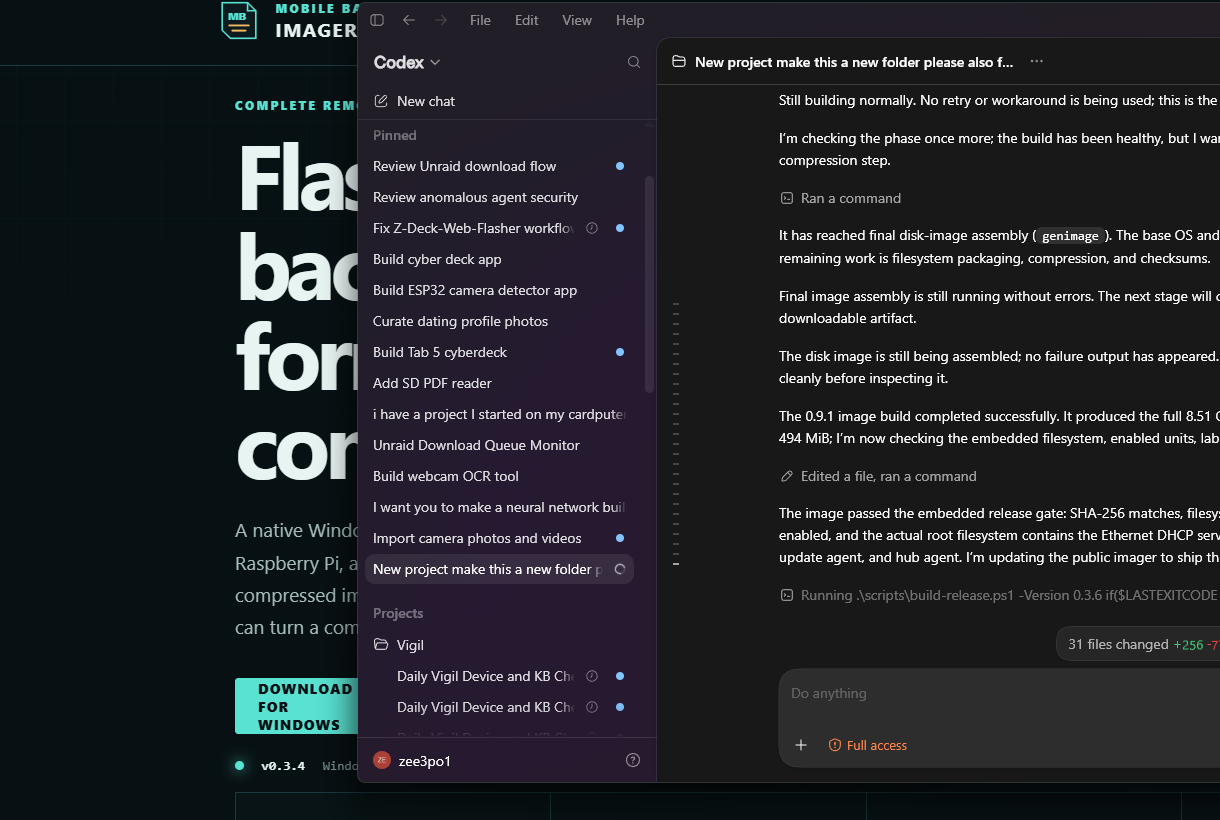
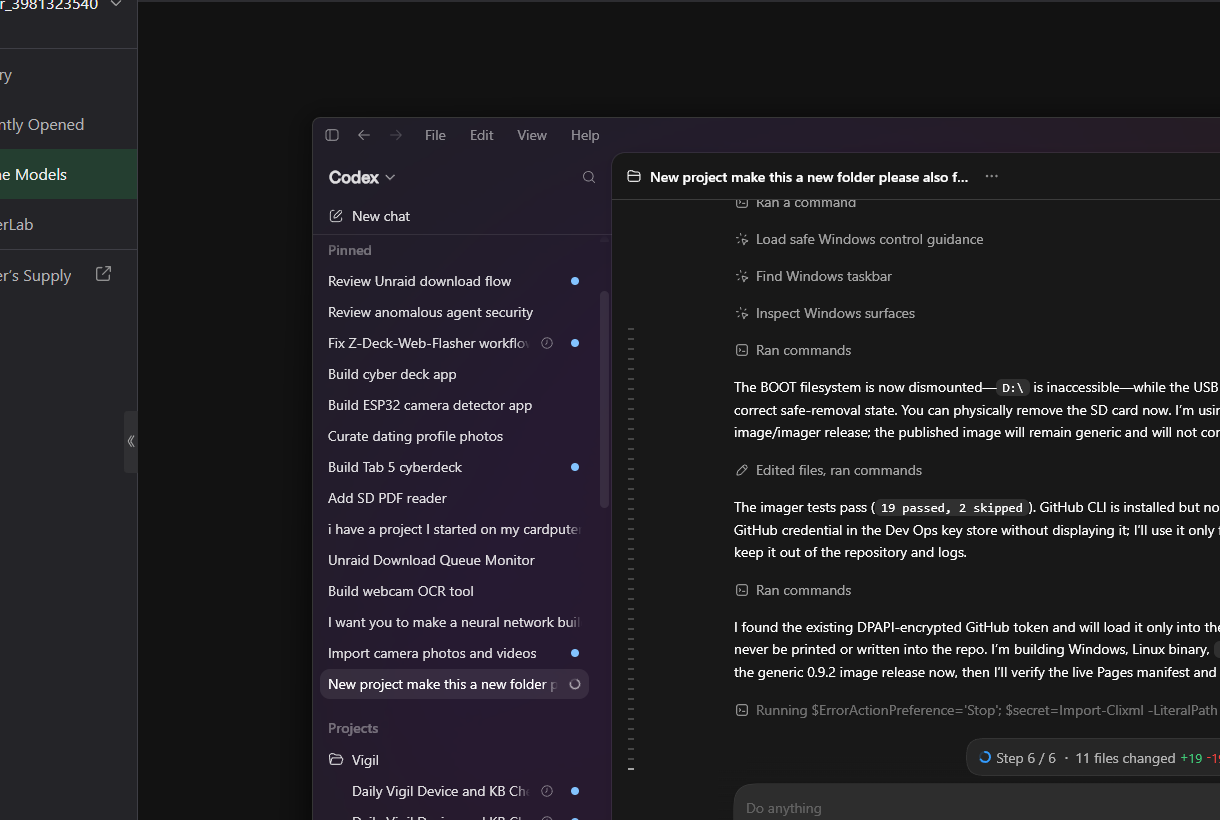
Build Mobile Base Imager 0.3.7

diff --git a/docs/index.html b/docs/index.html
@@ -27,7 +27,7 @@
           <a id="download-image" class="button" href="https://github.com/Its-ze/mobile-base-imager/releases/latest">MOBILE BASE IMAGE</a>
           <a class="button" href="https://mobilebase.itsz.studio">OPEN HOME BASE</a>
         </div>
-        <div class="release"><span class="pulse"></span><strong id="release-version">v0.3.6</strong><span>Windows + Linux x64</span><span>Managed Pi 0.9.1</span></div>
+        <div class="release"><span class="pulse"></span><strong id="release-version">v0.3.7</strong><span>Windows + Linux x64</span><span>Managed Pi 0.9.2</span></div>
       </div>
       <div class="product-card">
         <div class="window-bar"><i></i><span>MOBILE BASE IMAGER</span><em>ADMIN READY</em></div>

diff --git a/app/mobile_base_imager.py b/app/mobile_base_imager.py
@@ -38,9 +38,9 @@ from app.core import (
 PRODUCT = "Mobile Base Imager"
 MANIFEST_URL = "https://its-ze.github.io/mobile-base-imager/release-manifest.json"
 FALLBACK_MANIFEST = {
-    "imageVersion": "0.9.1",
-    "imageAsset": "mobile-base-pi5-0.9.1.img.zst",
-    "imageUrl": "https://github.com/Its-ze/mobile-base-imager/releases/download/v0.3.6/mobile-base-pi5-0.9.1.img.zst",
+    "imageVersion": "0.9.2",
+    "imageAsset": "mobile-base-pi5-0.9.2.img.zst",
+    "imageUrl": "https://github.com/Its-ze/mobile-base-imager/releases/download/v0.3.7/mobile-base-pi5-0.9.2.img.zst",
     "imageBytes": 517582438,
[1 lines of base64/hex data omitted]
 }

diff --git a/app/__init__.py b/app/__init__.py
@@ -1,1 +1,1 @@
-__version__ = "0.3.6"
+__version__ = "0.3.7"

diff --git a/README.md b/README.md
@@ -46,8 +46,8 @@ Ubuntu 24.04+, Debian 13+, and compatible x86_64 distributions with glibc 2.39+ 
 On Fedora 40 or newer, download the AppImage, make it executable, and run it:
 
 ```bash
-chmod +x Mobile_Base_Imager-0.3.6-x86_64.AppImage
-./Mobile_Base_Imager-0.3.6-x86_64.AppImage
+chmod +x Mobile_Base_Imager-0.3.7-x86_64.AppImage
+./Mobile_Base_Imager-0.3.7-x86_64.AppImage
 ```
 
 Download and run the standalone installer:
@@ -60,12 +60,12 @@ bash install-mobile-base-imager.sh
 The installer downloads the matching Debian package, verifies its published SHA-256, installs required system packages through APT, creates the desktop entry, and runs the built-in self-test.
 
 ```bash
-sudo apt install ./mobile-base-imager_0.3.6_linux_amd64.deb
+sudo apt install ./mobile-base-imager_0.3.7_linux_amd64.deb
 ```
 
 The portable Linux archive can run without installation. Extract it and launch `./mobile-base-imager`, or run `sudo ./install.sh` to add the desktop entry.
 
-New Mobile Base 0.9.1 units automatically use DHCP when Ethernet is connected. Open the unique `.local` setup address printed in `mobile-base-pairing.txt`, enter the pairing code, choose Ethernet-only setup, and set the `mobileadmin` password. The dashboard is on port 8788 and the full pinned SSH shell is on port 22. Units can also enroll from their local **Hub** page with the authenticated Unraid home base at [mobilebase.itsz.studio](https://mobilebase.itsz.studio). Remote management is outbound-only and opt-in; the image does not expose a hidden Internet listener.
+New Mobile Base 0.9.2 units automatically use DHCP when Ethernet is connected. Open the unique `.local` setup address printed in `mobile-base-pairing.txt`, enter the pairing code, choose Ethernet-only setup, and configure `mobileadmin`. The dashboard is on port 8788 and the full pinned SSH shell is on port 22. A card may also be privately provisioned before first boot with a single-use hub enrollment phrase and an operator SSH public key; the unit consumes the phrase after confirmed enrollment and disables password authentication for `mobileadmin`. The public image contains no enrollment secrets or operator keys. Remote management is outbound-only and opt-in; the image does not expose a hidden Internet listener.
 
 Linux discovery uses `lsblk`; destructive operations use `wipefs`, `parted`, and the appropriate `mkfs` utility. The app's **Restart as root** button elevates only after the operator chooses a raw-media workflow.
 